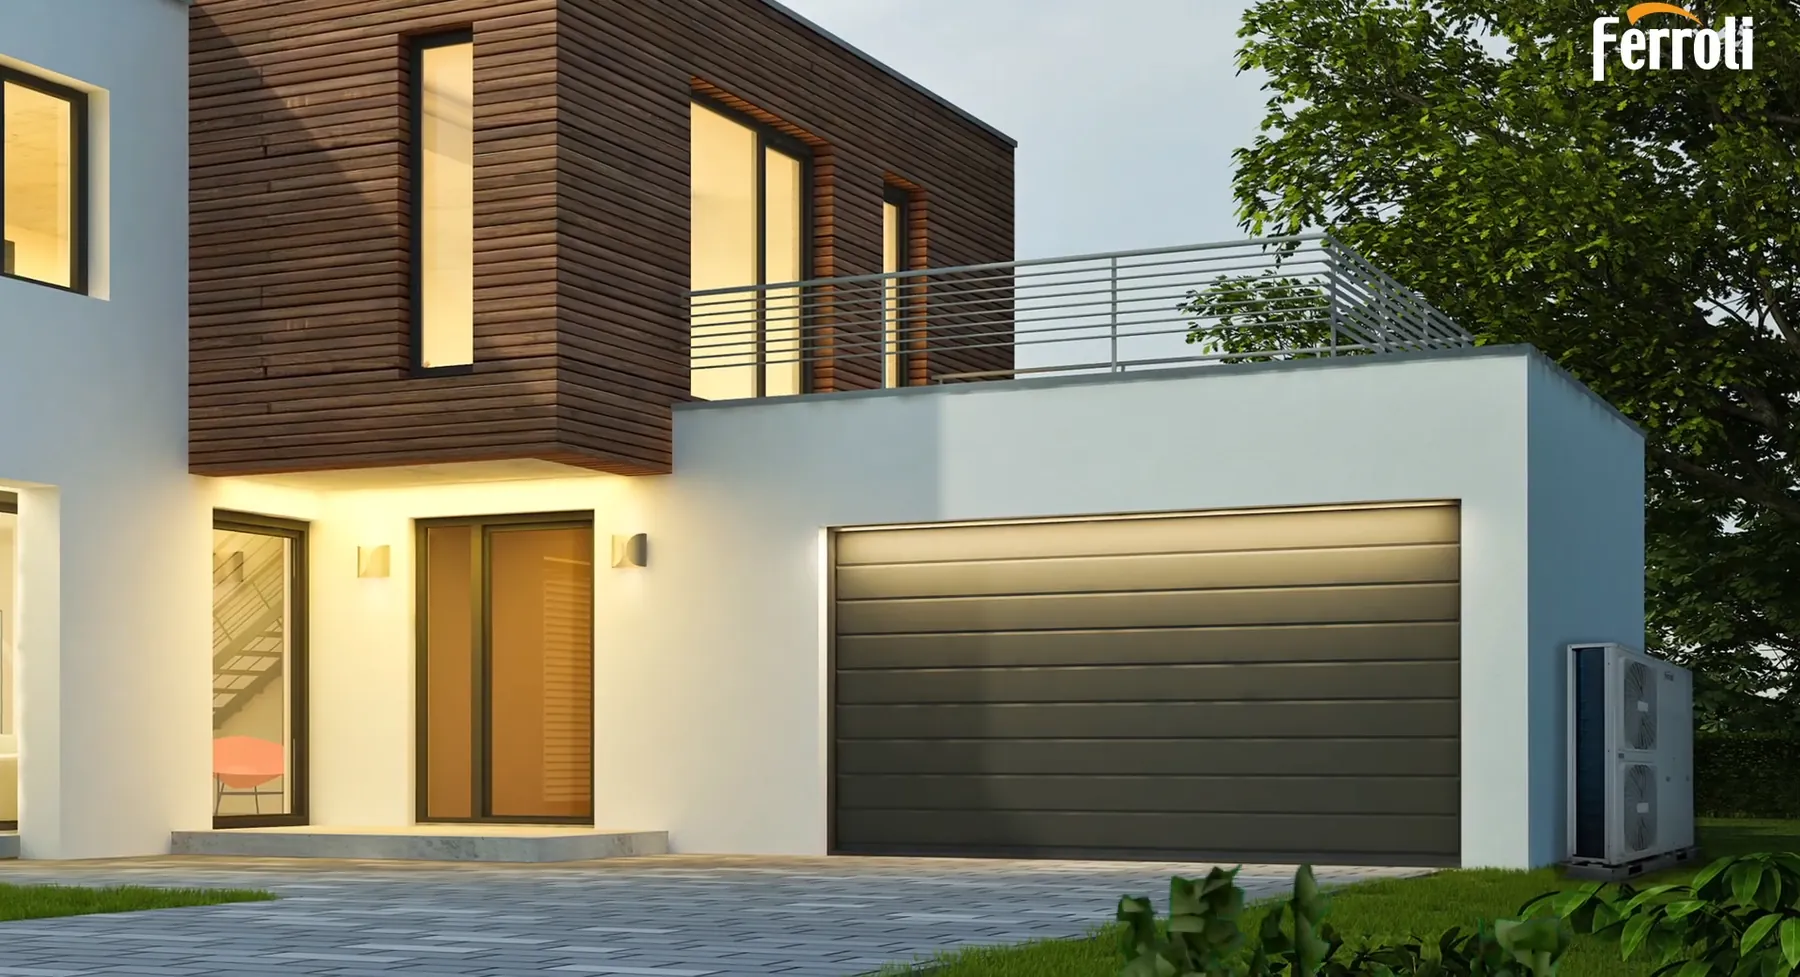
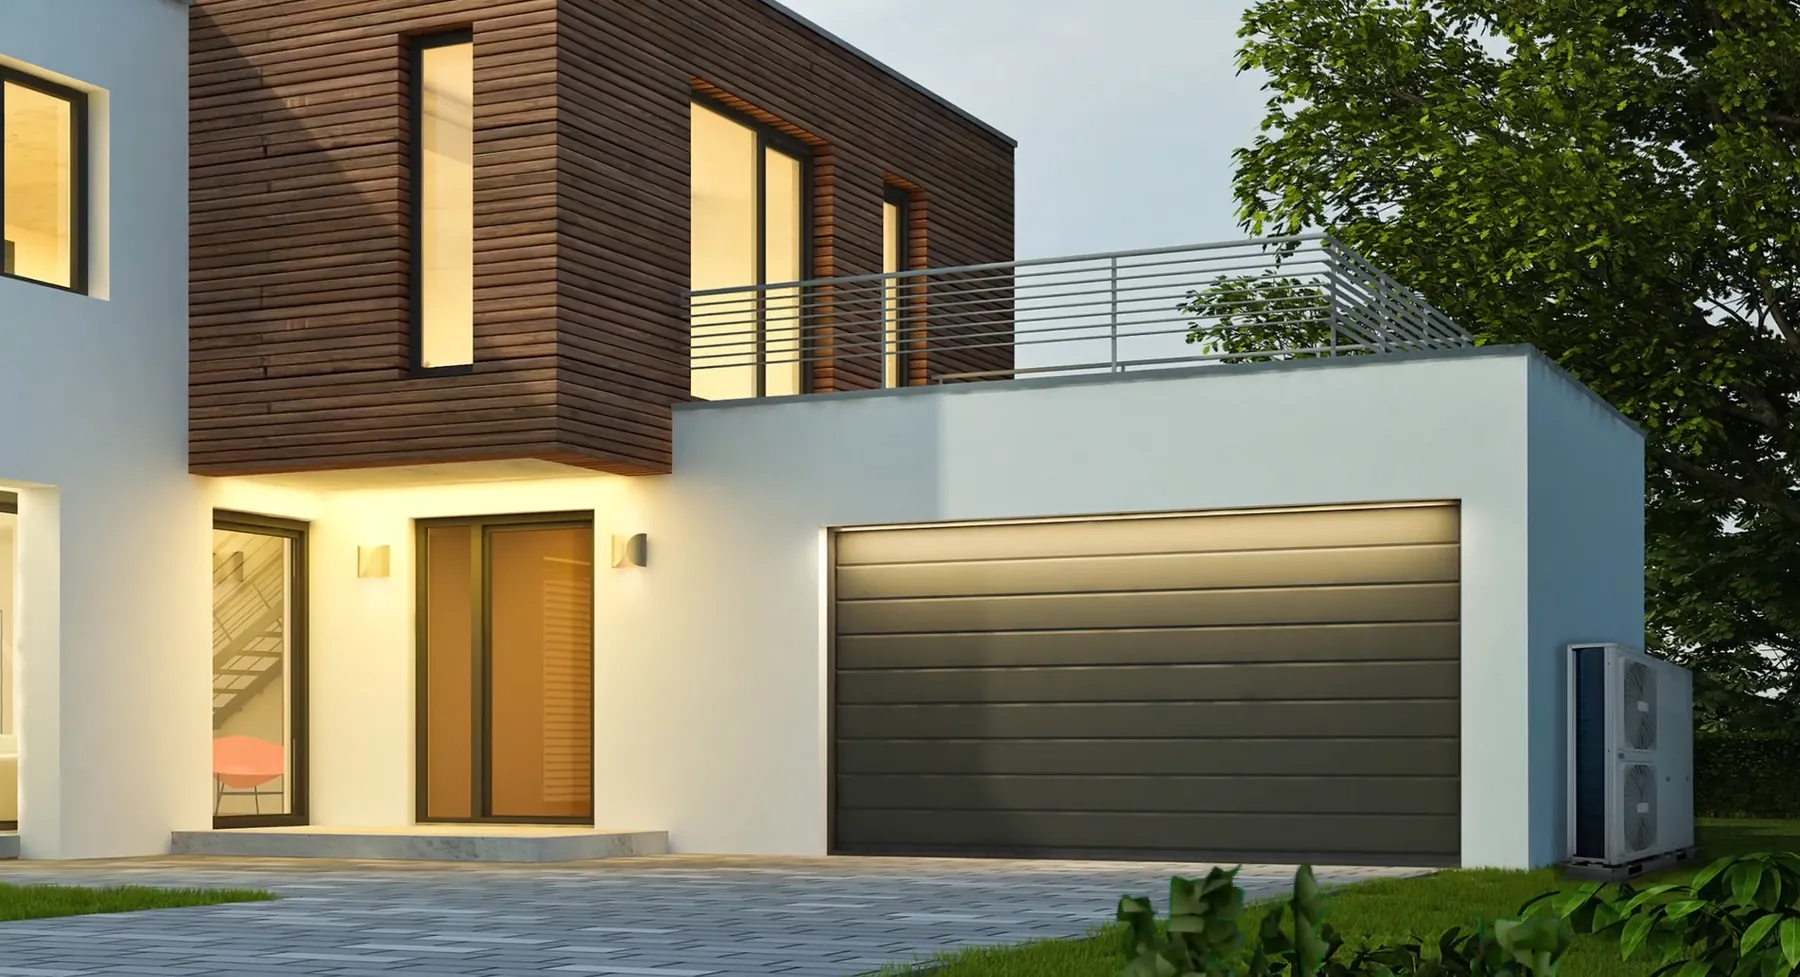
Update About and contact copy, remove brands from hero images
- About: "general contractor" instead of EPC; the story's right column
  now uses the same type as the left one and stays on screen on short
  viewports
- Contacts: "Assistenza al dimensionamento", new scrolling claims taken
  from the About page, no response-time promise in the quote form
- Hero slides 3 and 5: FOX ESS and Ferroli logos removed

Changed region(s): [[0.8711, 0.0, 0.9956, 0.0921]]

diff --git a/src/pages/AboutPage.tsx b/src/pages/AboutPage.tsx
@@ -518,7 +518,7 @@ function Manifesto() {
         </div>
         <p className={styles.manifestoText} data-manifesto>
           <span className={styles.manifestoAccent}>Installatori,</span> società di
-          ingegneria ed EPC, aziende e professionisti che cercano prodotti tecnici
+          ingegneria e general contractor, aziende e professionisti che cercano prodotti tecnici
           affidabili e un interlocutore competente per sceglierli.
         </p>
       </div>
@@ -559,6 +559,7 @@ const TALENT_IMAGES: { src: string; alt: string; position?: string }[] = [
 function Talent() {
   const ref = useRef<HTMLElement>(null);
   const videoRef = useRef<HTMLVideoElement>(null);
+  const noteRef = useRef<HTMLDivElement>(null);
   useReveal(ref);
 
   /* L'ultima "foto" della pila è il primo fotogramma del video. Il blocco si
@@ -672,6 +673,20 @@ function Talent() {
     };
   }, []);
 
+  /* La nota di destra ha lo stesso corpo del racconto di sinistra, quindi è
+     alta: il foglio di stile la alza quanto serve perché non esca dal fondo
+     dello schermo, e per farlo deve sapere quanto è alta. La misura cambia
+     con la larghezza della finestra, per questo la si tiene aggiornata. */
+  useLayoutEffect(() => {
+    const note = noteRef.current;
+    if (!note) return;
+    const measure = () => note.style.setProperty("--note-h", `${note.offsetHeight}px`);
+    measure();
+    const ro = new ResizeObserver(measure);
+    ro.observe(note);
+    return () => ro.disconnect();
+  }, []);
+
   return (
     <section ref={ref} className={styles.talent} aria-label="La nostra storia" data-nav-theme="light">
       {/* Fissa in alto a sinistra mentre le foto scorrono al centro. La
@@ -714,7 +729,7 @@ function Talent() {
       <div className={styles.talentAside}>
         {/* Il seguito della storia: un blocco solo, così i due passaggi
             restano agganciati insieme mentre le foto scorrono. */}
-        <div className={styles.talentNote}>
+        <div ref={noteRef} className={styles.talentNote}>
           <p>
             Nel 2017 nasce la divisione Mobilità Elettrica. Il percorso
             nell&apos;elettronica e nei sistemi energetici si estende alla

diff --git a/src/data/contacts.ts b/src/data/contacts.ts
@@ -25,7 +25,7 @@ export const DEPARTMENTS: Department[] = [
   {
     key: "tecnico",
     name: "Ufficio tecnico",
-    text: "Dimensionamento, compatibilità fra componenti e configurazioni da verificare prima dell'ordine.",
+    text: "Assistenza al dimensionamento, compatibilità fra componenti e configurazioni da verificare prima dell'ordine.",
     phone: COMPANY.phone,
     email: "tecnico@hceitaly.it",
     hours: "Lun–Ven 8:30–13:00 / 14:00–18:00",
@@ -156,7 +156,7 @@ export const CONTACT_FORMS: FormDef[] = [
       },
     ],
     cta: "Invia la richiesta",
-    done: "Richiesta ricevuta: ti rispondiamo entro un giorno lavorativo.",
+    done: "Richiesta ricevuta: ti ricontattiamo al più presto.",
   },
   {
     id: "assistenza",
@@ -251,9 +251,9 @@ export const CONTACT_FORMS: FormDef[] = [
 
 /** Le frasi che scorrono nel pannello di sinistra. */
 export const CONTACT_CLAIMS = [
-  "Un numero per ogni reparto, non un centralino qualsiasi.",
-  "Rispondiamo entro un giorno lavorativo.",
+  "La qualità è l'unica direzione che seguiamo.",
+  "Prodotti tecnici affidabili e un interlocutore competente per sceglierli.",
   "Ogni preventivo nasce dall'impianto, non da un listino.",
-  "L'assistenza continua dopo la consegna.",
+  "Fornitori specializzati, assistenza puntuale e precisa.",
   "Ascoltiamo chi installa, chi fornisce e chi vuole entrare nel settore.",
 ];

diff --git a/src/pages/AboutPage.module.css b/src/pages/AboutPage.module.css
@@ -667,18 +667,22 @@
 
 /* Si aggancia nella metà bassa dello schermo e ci resta finché la sezione
    non finisce. L'aggancio è più alto di prima: qui ora ci sono due
-   capoversi, e più in basso l'ultimo uscirebbe dallo schermo. */
+   capoversi, e più in basso l'ultimo uscirebbe dallo schermo.
+   Corpo, peso e colore sono quelli del racconto di sinistra: le due colonne
+   sono lo stesso testo, diviso in due. Con quel corpo la nota è alta, e
+   sugli schermi bassi a 52vh uscirebbe dal fondo: lì sale quanto basta a
+   restare a un margine dal bordo. `--note-h` la misura il codice. */
 .talentNote {
   position: sticky;
-  top: 52vh;
+  top: min(52vh, calc(100vh - var(--note-h, 0px) - 5vh));
   display: flex;
   flex-direction: column;
-  gap: 0.85rem;
+  gap: 0.8em;
   max-width: 34ch;
-  font-size: 0.9rem;
+  font-size: clamp(1rem, 1.45vw, 1.28rem);
   font-weight: 500;
-  line-height: 1.65;
-  color: rgba(23, 20, 15, 0.7);
+  line-height: 1.45;
+  letter-spacing: -0.015em;
 }
 
 /* ---- Il finale video: l'ultima "foto" cresce fino a tutto schermo ---- */
